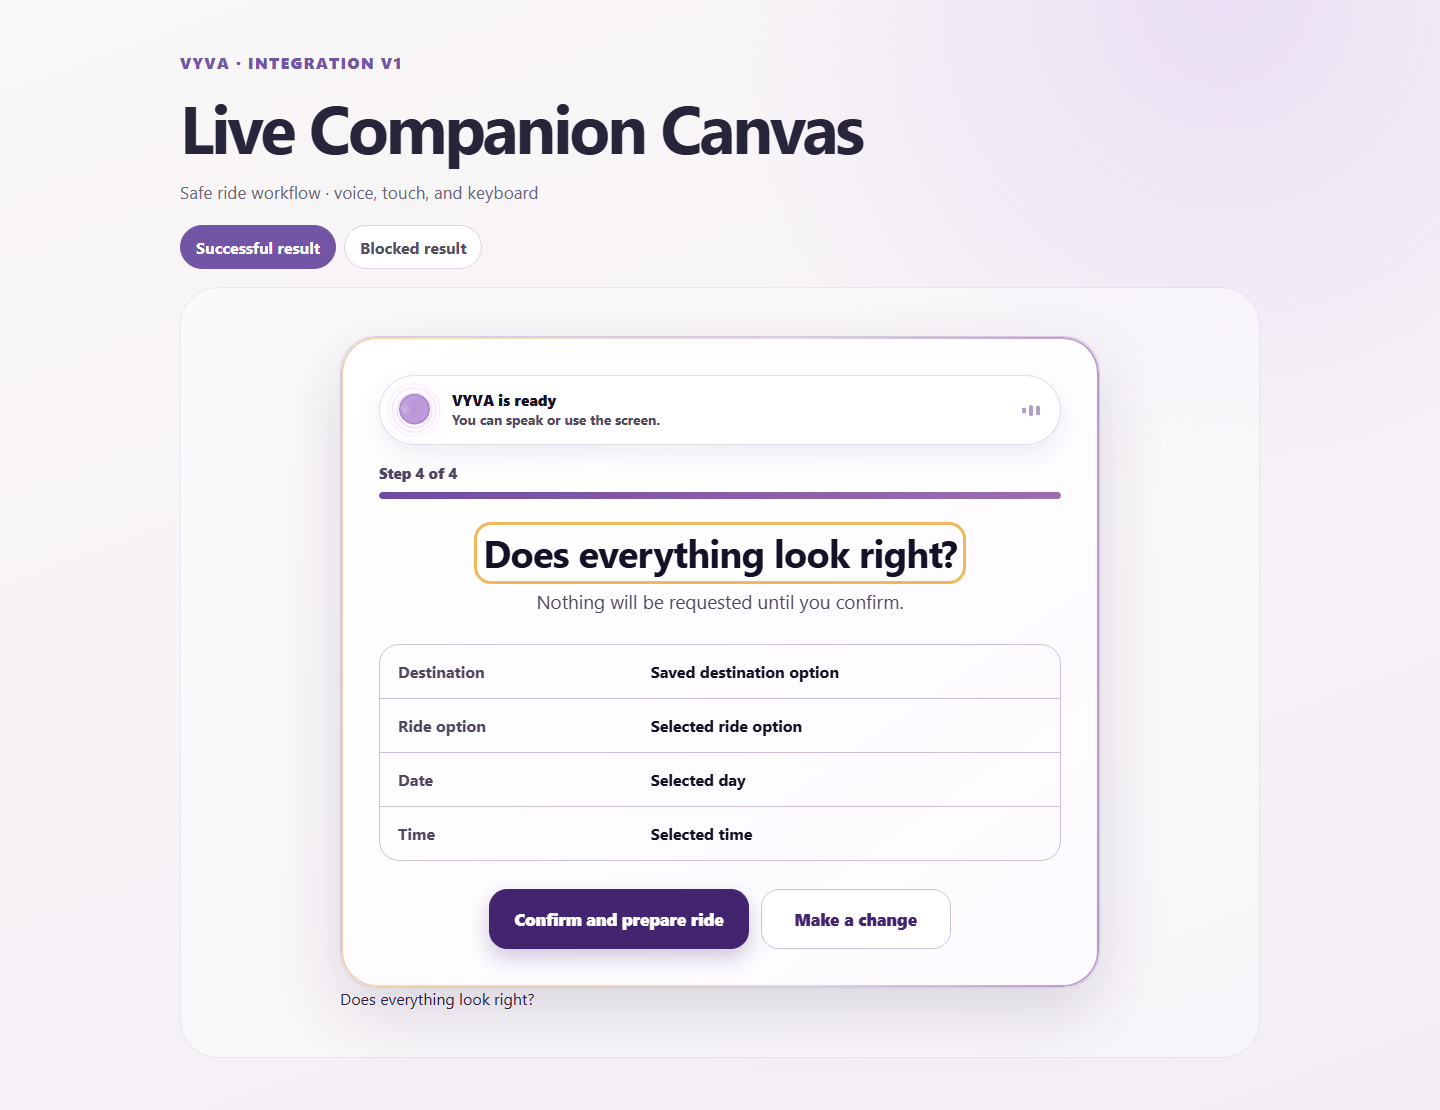
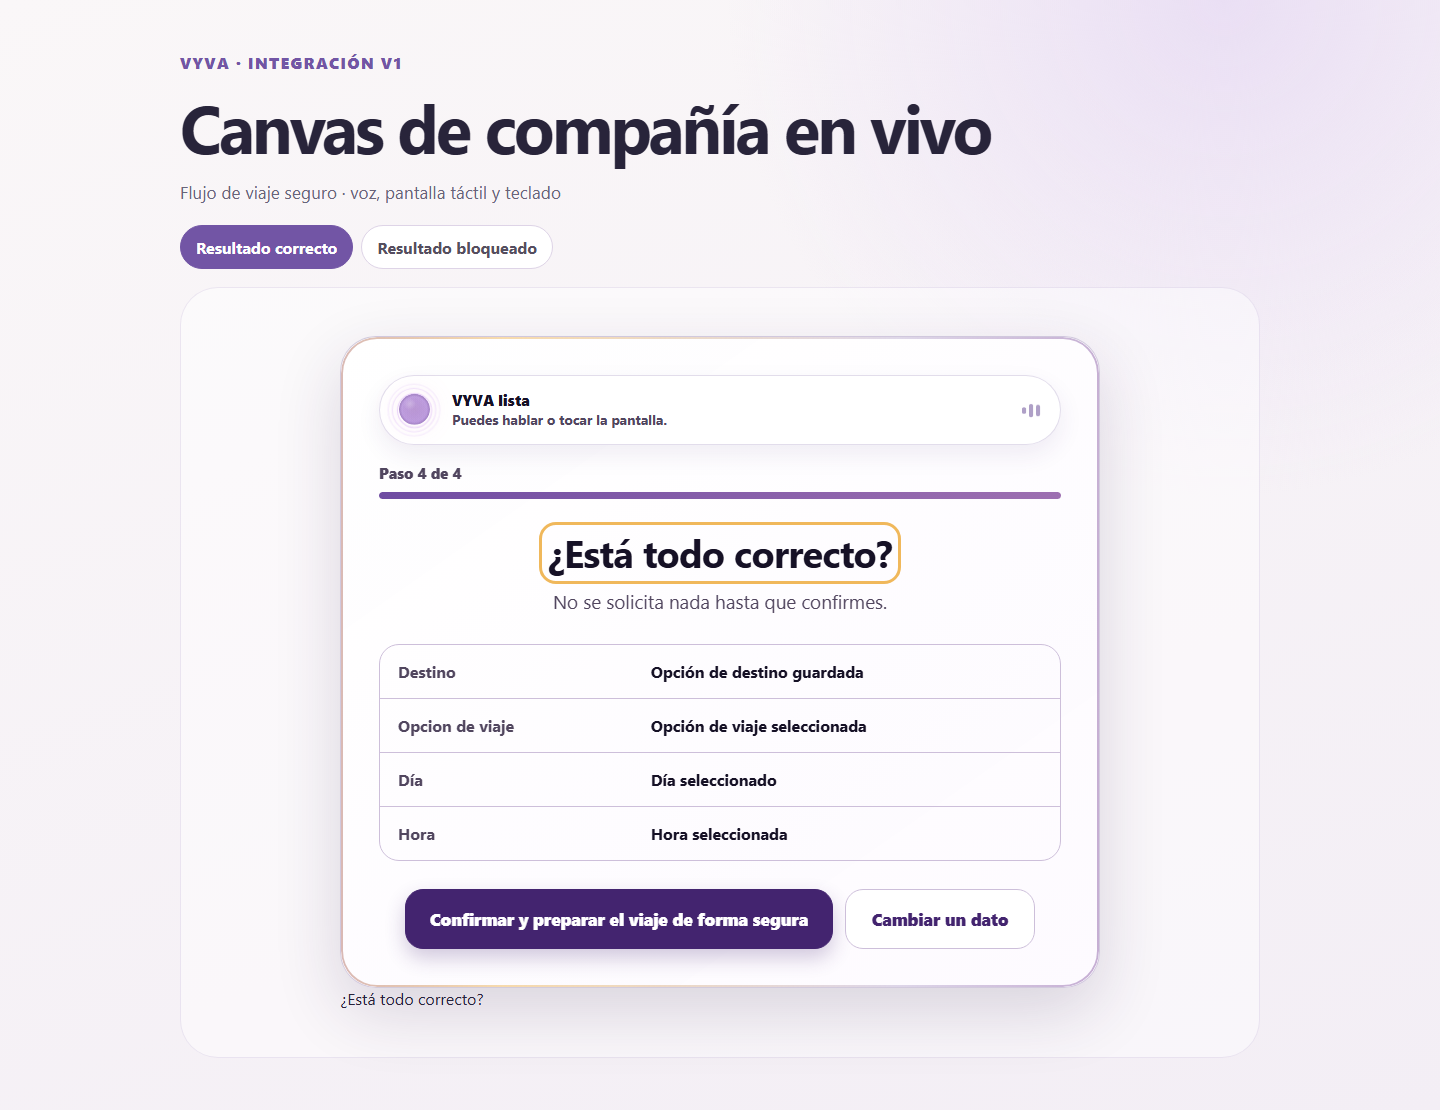
Audit voice canvas cross-page UX

diff --git a/src/components/VoiceCallOverlay.test.tsx b/src/components/VoiceCallOverlay.test.tsx
@@ -3,6 +3,19 @@ import { act, cleanup, fireEvent, render, screen } from "@testing-library/react"
 import VoiceCallOverlay from "./VoiceCallOverlay";
 import type { TranscriptEntry, VoiceDiagnosticStep } from "@/hooks/useVyvaVoice";
 import { VYVA_OPEN_SOS_EVENT } from "@/lib/sosEvents";
+import type { VoiceSessionPhase } from "@/lib/voiceSessionState";
+
+const overlayVoiceState = vi.hoisted(() => ({
+  status: "idle" as "idle" | "connecting" | "connected",
+  isSpeaking: false,
+  isConnecting: false,
+  isMicMuted: false,
+  voiceSessionPhase: "idle" as VoiceSessionPhase,
+}));
+
+vi.mock("@/hooks/useVyvaVoice", () => ({
+  useVyvaVoice: () => overlayVoiceState,
+}));
 
 vi.mock("react-i18next", () => ({
   initReactI18next: {
@@ -117,6 +130,11 @@ describe("VoiceCallOverlay voice room", () => {
 
   beforeEach(() => {
     vi.useFakeTimers();
+    overlayVoiceState.status = "idle";
+    overlayVoiceState.isSpeaking = false;
+    overlayVoiceState.isConnecting = false;
+    overlayVoiceState.isMicMuted = false;
+    overlayVoiceState.voiceSessionPhase = "idle";
     baseProps.onEnd.mockClear();
     baseProps.onMinimize.mockClear();
     canvasMocks.forEach((mock) => mock.mockClear());
@@ -255,6 +273,48 @@ describe("VoiceCallOverlay voice room", () => {
     fireEvent.click(screen.getByRole("button", { name: "Continue" }));
 
     expect(onCanvasPrimary).toHaveBeenCalledWith("10 Market Street");
+  });
+
+  it("keeps the VYVA agent presence visible inside an active Canvas scene", () => {
+    overlayVoiceState.status = "connected";
+    overlayVoiceState.isSpeaking = true;
+    overlayVoiceState.voiceSessionPhase = "speaking";
+
+    renderOverlay([], {
+      canvasViewModel: {
+        sceneId: "ride-provider",
+        kind: "choice",
+        title: "Which ride option looks best?",
+        helperText: "Compare the visible options while VYVA explains them.",
+        agentPresenceCopy: {
+          idleLabel: "VYVA is ready",
+          idleDescription: "Use voice or touch.",
+          listeningLabel: "Listening with you",
+          listeningDescription: "Say or tap one option.",
+          speakingLabel: "VYVA is speaking",
+          speakingDescription: "The screen stays on the same choice.",
+          thinkingLabel: "Checking options",
+          thinkingDescription: "Review the screen.",
+          accessibleLabel: "VYVA ride voice status",
+        },
+        blocks: [{
+          kind: "option-card",
+          id: "carecab",
+          title: "CareCab",
+          subtitle: "Best reputation",
+          accessibleLabel: "Choose CareCab",
+        }],
+      },
+    });
+
+    expect(screen.getByTestId("voice-canvas-surface")).toBeInTheDocument();
+    expect(screen.queryByTestId("voice-mode-zamora-orb")).not.toBeInTheDocument();
+    const canvas = screen.getByRole("region", { name: "Which ride option looks best?" });
+    expect(canvas).toHaveAttribute("data-agent-presence", "true");
+    expect(canvas).toHaveAttribute("data-agent-state", "speaking");
+    expect(screen.getByLabelText("VYVA ride voice status")).toHaveTextContent("VYVA is speaking");
+    expect(screen.getByText("The screen stays on the same choice.")).toBeInTheDocument();
+    expect(screen.getByTestId("voice-canvas-agent-orb-ride-provider")).toBeInTheDocument();
   });
 
   it("calls the type escape when available", () => {

diff --git a/src/dev/voice-canvas/integration.tsx b/src/dev/voice-canvas/integration.tsx
@@ -212,16 +212,41 @@ export function VoiceCanvasIntegrationGallery() {
   const isSpanish = params.get("locale") === "es";
   const evidenceSafe = params.get("evidence") === "sanitized";
   const copy = isSpanish ? spanishCopy : englishCopy;
+  const galleryText = isSpanish
+    ? {
+        eyebrow: "VYVA · Integración v1",
+        title: "Canvas de compañía en vivo",
+        subtitle: "Flujo de viaje seguro · voz, pantalla táctil y teclado",
+        toolbarLabel: "Simulación del resultado",
+        success: "Resultado correcto",
+        blocked: "Resultado bloqueado",
+        savedDestination: "Opción de destino guardada",
+        selectedRide: "Opción de viaje seleccionada",
+        selectedDay: "Día seleccionado",
+        selectedTime: "Hora seleccionada",
+      }
+    : {
+        eyebrow: "VYVA · Integration v1",
+        title: "Live Companion Canvas",
+        subtitle: "Safe ride workflow · voice, touch, and keyboard",
+        toolbarLabel: "Result simulation",
+        success: "Successful result",
+        blocked: "Blocked result",
+        savedDestination: "Saved destination option",
+        selectedRide: "Selected ride option",
+        selectedDay: "Selected day",
+        selectedTime: "Selected time",
+      };
   const reviewState: RideCanvasState = {
     step: "review",
     requestId: 0,
     draft: {
       placeId: "home",
-      destination: evidenceSafe ? "Saved destination option" : "12 Garden Lane",
+      destination: evidenceSafe ? galleryText.savedDestination : "12 Garden Lane",
       providerId: "carecab",
-      providerName: evidenceSafe ? "Selected ride option" : "CareCab",
-      dateChoice: evidenceSafe ? "Selected day" : "Saturday, 18 July",
-      time: evidenceSafe ? "Selected time" : "10:30",
+      providerName: evidenceSafe ? galleryText.selectedRide : "CareCab",
+      dateChoice: evidenceSafe ? galleryText.selectedDay : "Saturday, 18 July",
+      time: evidenceSafe ? galleryText.selectedTime : "10:30",
     },
   };
   const confirm = useCallback(
@@ -403,24 +428,24 @@ export function VoiceCanvasIntegrationGallery() {
   return (
     <main className="vc-gallery vc-integration-gallery">
       <header>
-        <p>VYVA · Integration v1</p>
-        <h1>Live Companion Canvas</h1>
-        <span>Safe ride workflow · voice, touch, and keyboard</span>
+        <p>{galleryText.eyebrow}</p>
+        <h1>{galleryText.title}</h1>
+        <span>{galleryText.subtitle}</span>
       </header>
-      <div className="vc-demo-toolbar" role="group" aria-label="Result simulation">
+      <div className="vc-demo-toolbar" role="group" aria-label={galleryText.toolbarLabel}>
         <button
           type="button"
           aria-pressed={mode === "success"}
           onClick={() => setMode("success")}
         >
-          Successful result
+          {galleryText.success}
         </button>
         <button
           type="button"
           aria-pressed={mode === "failure"}
           onClick={() => setMode("failure")}
         >
-          Blocked result
+          {galleryText.blocked}
         </button>
       </div>
       <div className="vc-gallery-stage">

diff --git a/src/dev/voice-canvas/provider-reply.tsx b/src/dev/voice-canvas/provider-reply.tsx
@@ -281,6 +281,25 @@ export default function ProviderReplyGallery() {
   const spanish = params.get("locale") === "es";
   const startsAtReview = params.get("scene") === "review";
   const evidenceSafe = params.get("evidence") === "sanitized";
+  const galleryText = spanish
+    ? {
+        eyebrow: "VYVA · Canvas de respuesta del proveedor",
+        title: "Respuesta del proveedor",
+        subtitle: "Guardar primero. Completar después.",
+        toolbarLabel: "Simulación de respuesta del proveedor",
+        success: "Resultado correcto",
+        blocked: "Resultado bloqueado",
+        needsDate: "Necesita fecha/hora",
+      }
+    : {
+        eyebrow: "VYVA · Provider Reply Canvas",
+        title: "Provider reply flow",
+        subtitle: "Save first. Complete separately.",
+        toolbarLabel: "Provider reply simulation",
+        success: "Successful result",
+        blocked: "Blocked result",
+        needsDate: "Needs date/time",
+      };
   const save = useCallback(async () => {
     await new Promise((resolve) => setTimeout(resolve, 250));
     if (mode === "failure") throw new Error(spanish ? "No se pudo guardar." : "Could not save.");
@@ -295,14 +314,14 @@ export default function ProviderReplyGallery() {
   return (
     <main className="vc-gallery vc-integration-gallery">
       <header>
-        <p>VYVA - Provider Reply Canvas</p>
-        <h1>{spanish ? "Respuesta del proveedor" : "Provider reply flow"}</h1>
-        <span>{spanish ? "Guardar primero. Completar despues." : "Save first. Complete separately."}</span>
+        <p>{galleryText.eyebrow}</p>
+        <h1>{galleryText.title}</h1>
+        <span>{galleryText.subtitle}</span>
       </header>
-      <div className="vc-demo-toolbar" role="group" aria-label="Provider reply simulation">
-        <button type="button" aria-pressed={mode === "success"} onClick={() => setMode("success")}>Successful result</button>
-        <button type="button" aria-pressed={mode === "failure"} onClick={() => setMode("failure")}>Blocked result</button>
-        <button type="button" aria-pressed={scheduled} onClick={() => setScheduled((value) => !value)}>Needs date/time</button>
+      <div className="vc-demo-toolbar" role="group" aria-label={galleryText.toolbarLabel}>
+        <button type="button" aria-pressed={mode === "success"} onClick={() => setMode("success")}>{galleryText.success}</button>
+        <button type="button" aria-pressed={mode === "failure"} onClick={() => setMode("failure")}>{galleryText.blocked}</button>
+        <button type="button" aria-pressed={scheduled} onClick={() => setScheduled((value) => !value)}>{galleryText.needsDate}</button>
       </div>
       <div className="vc-gallery-stage">
         <ProviderReplyVoiceCanvas

diff --git a/src/components/voice-canvas/richDecisionCardsUnified.test.ts b/src/components/voice-canvas/richDecisionCardsUnified.test.ts
@@ -8,6 +8,7 @@ import { initialShoppingCanvasState } from "./shoppingCanvasMachine";
 import { shoppingCanvasViewModel, type ShoppingCanvasCopy } from "./shoppingCanvasViewModel";
 import { initialProviderReplyCanvasState } from "./providerReplyCanvasMachine";
 import { providerReplyCanvasViewModel, type ProviderReplyCanvasCopy } from "./providerReplyCanvasViewModel";
+import { applyVoiceCanvasAgentPresence } from "./useVoiceCanvasPlatform";
 
 const agentPresence: VoiceCanvasAgentPresenceCopy = {
   idleLabel: "Voice ready",
@@ -137,6 +138,38 @@ const providerReplyCopy: ProviderReplyCanvasCopy = {
 };
 
 describe("unified rich decision card contracts", () => {
+  it("keeps the shared VYVA agent presence visible across live decision flows", () => {
+    const scenes = [
+      rideCanvasViewModel({ ...initialRideCanvasState, step: "place" }, rideCopy, [{
+        id: "clinic",
+        label: "Clinic",
+        address: "12 Garden Lane",
+      }], [], []),
+      refillCanvasViewModel({ ...initialRefillCanvasState, step: "medication" }, refillCopy, [], [], []),
+      shoppingCanvasViewModel({ ...initialShoppingCanvasState, step: "retailer" }, shoppingCopy, [], []),
+      providerReplyCanvasViewModel({ ...initialProviderReplyCanvasState, step: "context" }, providerReplyCopy, {
+        providerName: "Riverside Clinic",
+        providerType: "Clinic",
+        replyIntents: [{ id: "confirm", label: "Confirm appointment" }],
+      }),
+    ];
+
+    for (const scene of scenes) {
+      const withPresence = applyVoiceCanvasAgentPresence(scene, {
+        status: "connected",
+        isMicMuted: false,
+        voiceSessionPhase: "idle",
+      }, agentPresence);
+
+      expect(withPresence.agentPresence).toMatchObject({
+        state: "listening",
+        label: agentPresence.listeningLabel,
+        description: agentPresence.listeningDescription,
+        accessibleLabel: agentPresence.accessibleLabel,
+      });
+    }
+  });
+
   it("keeps ride rich cards aligned with the cross-flow review and no-action boundary", () => {
     const viewModel = rideCanvasViewModel({ ...initialRideCanvasState, step: "place" }, rideCopy, [{
       id: "clinic",

diff --git a/src/dev/voice-canvas/refill-integration.tsx b/src/dev/voice-canvas/refill-integration.tsx
@@ -216,6 +216,21 @@ export default function Gallery() {
   const params = new URLSearchParams(location.search);
   const spanish = params.get("locale") === "es";
   const evidenceSafe = params.get("evidence") === "sanitized";
+  const galleryText = spanish
+    ? {
+        eyebrow: "VYVA · Canvas de renovación de medicación",
+        title: "Preparación de renovación de medicación",
+        subtitle: "Solo preparación · sin pedido, aprobación, contacto ni escritura de datos antes de confirmar",
+        success: "Resultado correcto",
+        blocked: "Resultado bloqueado",
+      }
+    : {
+        eyebrow: "VYVA · Medication Refill Canvas",
+        title: "Medication refill preparation",
+        subtitle: "Preparation only · no order, approval, contact, or data write before confirmation",
+        success: "Successful result",
+        blocked: "Blocked result",
+      };
   const confirm = useCallback(async () => {
     await new Promise((resolve) => setTimeout(resolve, 300));
     if (failure) throw new Error("The preparation service is temporarily unavailable.");
@@ -312,13 +327,13 @@ export default function Gallery() {
   return (
     <main className="vc-gallery vc-integration-gallery">
       <header>
-        <p>VYVA · Medication Refill Canvas</p>
-        <h1>Medication refill preparation</h1>
-        <span>Preparation only · no order, approval, contact, or data write before confirmation</span>
+        <p>{galleryText.eyebrow}</p>
+        <h1>{galleryText.title}</h1>
+        <span>{galleryText.subtitle}</span>
       </header>
       <div className="vc-demo-toolbar">
-        <button onClick={() => setFailure(false)}>Successful result</button>
-        <button onClick={() => setFailure(true)}>Blocked result</button>
+        <button onClick={() => setFailure(false)}>{galleryText.success}</button>
+        <button onClick={() => setFailure(true)}>{galleryText.blocked}</button>
       </div>
       <div className="vc-gallery-stage">
         <RefillVoiceCanvas

diff --git a/e2e/voice-canvas-cross-page-fit.spec.ts b/e2e/voice-canvas-cross-page-fit.spec.ts
@@ -9,7 +9,7 @@ const viewports = [
 const flowPages = [
   {
     name: "ride",
-    path: "/voice-canvas-integration.html?review&evidence=sanitized",
+    path: "/voice-canvas-integration.html?review&locale=es&evidence=sanitized",
   },
   {
     name: "appointment",
@@ -17,7 +17,7 @@ const flowPages = [
   },
   {
     name: "provider-reply",
-    path: "/provider-reply-canvas.html?evidence=sanitized",
+    path: "/provider-reply-canvas.html?locale=es&evidence=sanitized",
   },
   {
     name: "shopping",
@@ -25,7 +25,7 @@ const flowPages = [
   },
   {
     name: "refill",
-    path: "/medication-refill-canvas-integration.html?evidence=sanitized",
+    path: "/medication-refill-canvas-integration.html?locale=es&evidence=sanitized",
   },
   {
     name: "prescription-follow-up",
